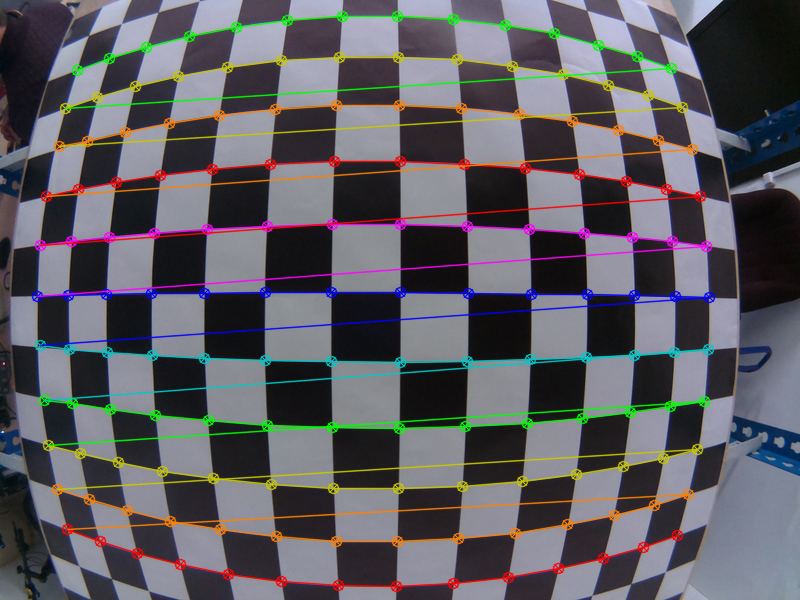
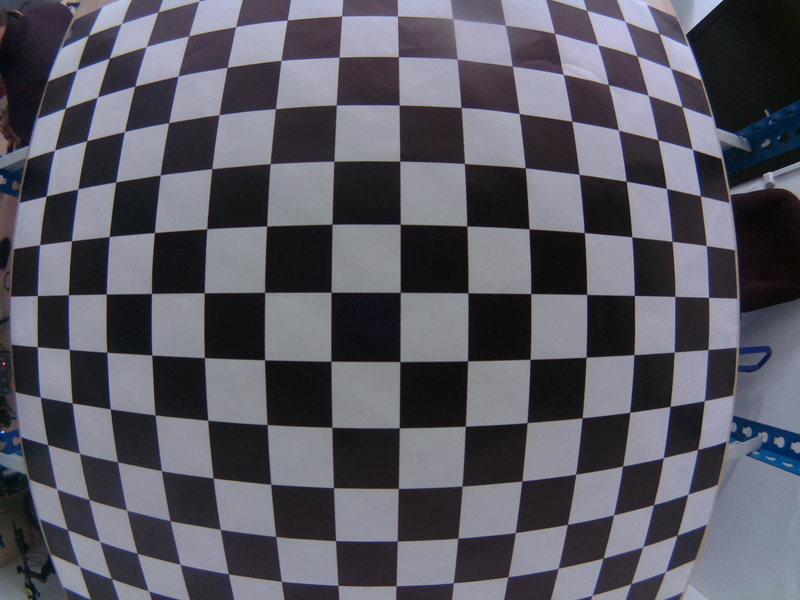
.

diff --git a/src/widget/lib/selectiveImageLabel.cpp b/src/widget/lib/selectiveImageLabel.cpp
@@ -25,8 +25,7 @@ void SelectiveImageLabel::paintEvent(QPaintEvent *e)
 void SelectiveImageLabel::mousePressEvent(QMouseEvent *e)
 {
     if (e->button()==Qt::RightButton){        
-        center.x = e->x();
-        center.y = e->y();
+        center = e->pos();
 
         repaint();
         emit centerSelected(center);
@@ -60,7 +59,7 @@ void SelectiveImageLabel::drawCircle(){
     QPainter painter(this);
     painter.setPen(QPen(QBrush(QColor(255,0,0,180)),1,Qt::DashLine));
     painter.setBrush(QBrush(QColor(255,0,255,120)));
-    painter.drawEllipse(QRect(center.x - diameter/2, center.y -diameter / 2, diameter, diameter));
+    painter.drawEllipse(QRect(center.x() - diameter/2, center.y() -diameter / 2, diameter, diameter));
 
 }
 
@@ -72,8 +71,8 @@ QRect SelectiveImageLabel::getSelectionRect(){
     return selectionRect;
 }
 
-cv::Point2i SelectiveImageLabel::getCenter(){
-    if(center.x <= 0 || center.y <= 0){
+QPoint SelectiveImageLabel::getCenter(){
+    if(center.x() <= 0 || center.y() <= 0){
         throw new runtime_error("Выделите центр на рисунке");
     }
 

diff --git a/src/controller/calibcontroller.cpp b/src/controller/calibcontroller.cpp
@@ -82,7 +82,6 @@ void CalibController::findChessboardCorners(){
         }
 
         corners[p] = findChessboardCorners(images[p], sizes[p]);
-        imwrite(controller.getImage(p).toStdString(), images[p]);
 
         if(corners[p][0].size() == 0){
             throw runtime_error("Не удалось найти углы. Возможно неверно указан размер доски");
@@ -177,8 +176,8 @@ Point2i CalibController::findClosestCornerIndex(const Point2i & point, const Pos
     return index;
 }
 
-void CalibController::openImage(const Position & pos, const QString &path){
-    Mat image = imread(path);
+void CalibController::openImage(const Position pos, const QString &path){
+    Mat image = imread(path.toStdString());
 
     if(!image.data){
         throw runtime_error(QString("Не удалось открыть файл %1").arg(path).toStdString());

diff --git a/src/widget/shotwidget.cpp b/src/widget/shotwidget.cpp
@@ -21,7 +21,7 @@ ShotWidget::ShotWidget(
     setLayout(vLayout);
 
     connect(imageLabel, SIGNAL(rectSelected(QRect)), this, SLOT(onRectSelected(QRect)));
-    connect(imageLabel, SIGNAL(centerSelected(Point2i)), this, SLOT(onCenterSelected(Point2i)));
+    connect(imageLabel, SIGNAL(centerSelected(QPoint)), this, SLOT(onCenterSelected(QPoint)));
 }
 
 void ShotWidget::setImage(const QPixmap &pixmap){
@@ -32,6 +32,6 @@ void ShotWidget::onRectSelected(const QRect & rect){
     calibController.rois[position] = Rect(rect.x(), rect.y(), rect.width(), rect.height());
 }
 
-void ShotWidget::onCenterSelected(Point2i & center){
-    calibController.centers[position] = center;
+void ShotWidget::onCenterSelected(const QPoint & center){
+    calibController.centers[position] = Point2i(center.x(), center.y());
 }

diff --git a/src/widget/lib/selectiveImageLabel.h b/src/widget/lib/selectiveImageLabel.h
@@ -3,7 +3,7 @@
 
 #include <QLabel>
 #include <QMenu>
-#include "opencv2/opencv.hpp"
+
 
 using namespace std;
 
@@ -15,12 +15,12 @@ public:
 
     QRect getSelectionRect();
 
-    cv::Point2i getCenter();
+    QPoint getCenter();
 
     virtual    ~SelectiveImageLabel(){}
 signals:
     void rectSelected(const QRect & rect);
-    void centerSelected(const cv::Point2i  & center);
+    void centerSelected(const QPoint  & center);
 
 
 protected:
@@ -30,11 +30,8 @@ protected:
     void mouseReleaseEvent(QMouseEvent *e);
 private:
     QRect selectionRect = QRect(0, 0, 0, 0);
-    cv::Point2i center = cv::Point2i(0,0);
+    QPoint center = QPoint(0,0);
     bool selectionStarted;
     void drawCircle();
 };
-
-Q_DECLARE_METATYPE(cv::Point2i)
-
 #endif // PNGWIDGET_H

diff --git a/src/widget/settingswidget.cpp b/src/widget/settingswidget.cpp
@@ -5,8 +5,8 @@
 #include <QMessageBox>
 #include <QFileDialog>
 
-SettingsWidget::SettingsWidget(Controller & _controller):
-    controller(_controller), QWidget()
+SettingsWidget::SettingsWidget(Controller & _controller, CalibController & _calibController):
+    QWidget(), controller(_controller), calibController(_calibController)
 {
     QPushButton* saveROIButton = new QPushButton("сохр ROI");
     QPushButton* loadImageButton = new QPushButton("Загрузить изображение");

diff --git a/src/controller/calibcontroller.h b/src/controller/calibcontroller.h
@@ -79,17 +79,14 @@ class CalibController
 {
     // кеш калибровачный данных
     vector<CalibShot> cache;
-
     //координаты углов на камере слева/справа
     map<Position, vector<vector<Point2f>>> corners; 
-
-    map<Position, Mat> images;
-
     const Controller & controller;
 
 public:
     map<Position, Point2i> centers;
     map<Position, Rect> & rois;
+    map<Position, Mat> images;
 
     map<Position, Size> sizes;
 

diff --git a/src/widget/settingswidget.h b/src/widget/settingswidget.h
@@ -2,7 +2,8 @@
 #define SETTINGSWIDGET_H
 #include <QPushButton>
 #include <QWidget>
-#include "src/controller/controller.h"
+#include "controller/controller.h"
+#include "calibcontroller.h"
 
 class SettingsWidget: public QWidget
 {
@@ -19,7 +20,7 @@ public slots:
 private:
     Controller & controller;
 
-    Controller & calibController;
+    CalibController & calibController;
 
     QPushButton * shotButton;
 

diff --git a/src/widget/shotwidget.h b/src/widget/shotwidget.h
@@ -29,10 +29,10 @@ public:
 
     ShotWidget(Position _position, CalibController & _calibController);
 
-private slots:
+public slots:
     void onRectSelected(const QRect & rect);
 
-    void onCenterSelected(Point2i & center);
+    void onCenterSelected(const QPoint & center);
 };
 
 #endif // SHOTWIDGET_H

diff --git a/src/widget/shotswidget.cpp b/src/widget/shotswidget.cpp
@@ -58,7 +58,7 @@ void ShotsWidget::updateIpLabels(){
 
 QPixmap ShotsWidget::mat2QPixmap(const Mat & image){
     if(!image.data){
-        return QPixmap;
+        return QPixmap();
     }
 
     return QPixmap::fromImage(QImage((unsigned char*) image.data, image.cols, image.rows, QImage::Format_RGB888));

diff --git a/src/widget/shotswidget.h b/src/widget/shotswidget.h
@@ -36,7 +36,7 @@ private:
     map<Position, ShotWidget*> pngWidgets;
     map<Position, QLabel*> ipLabels;
 
-    void mat2QPixmap(const Mat & image);
+    QPixmap mat2QPixmap(const Mat & image);
 };
 
 #endif // ShotsWidget_H
